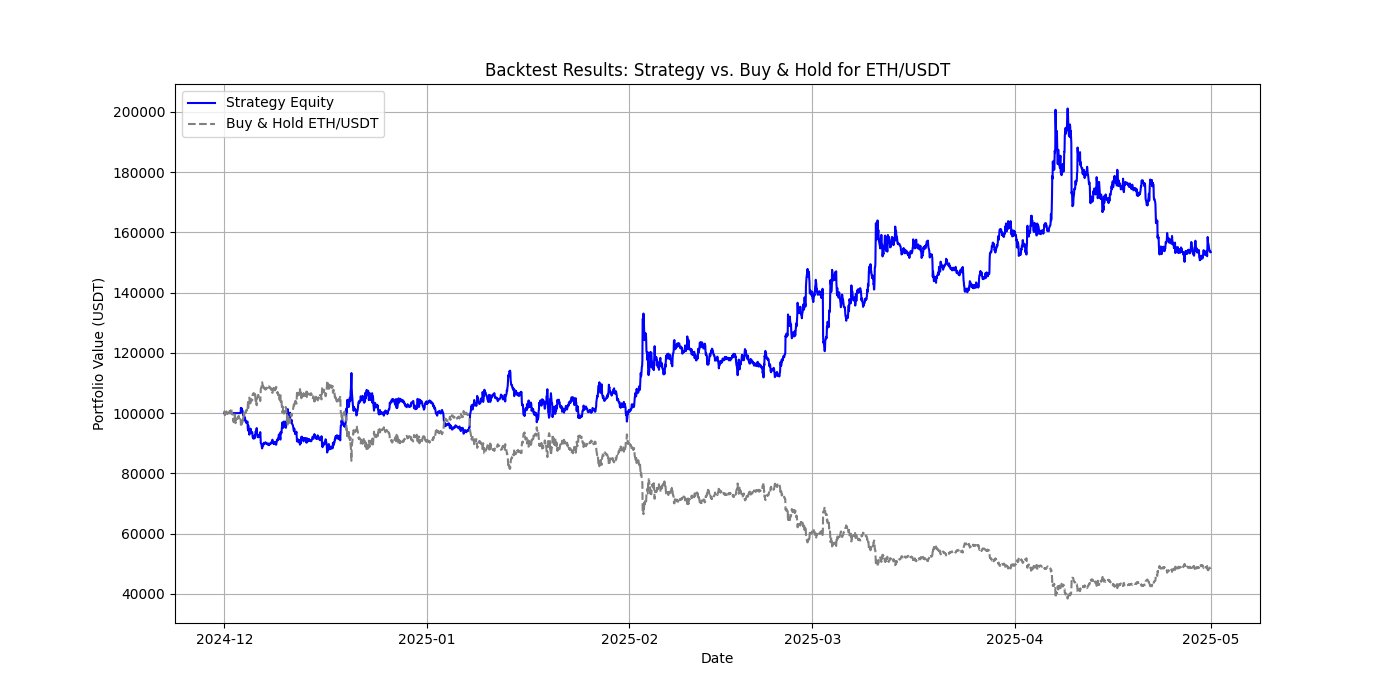
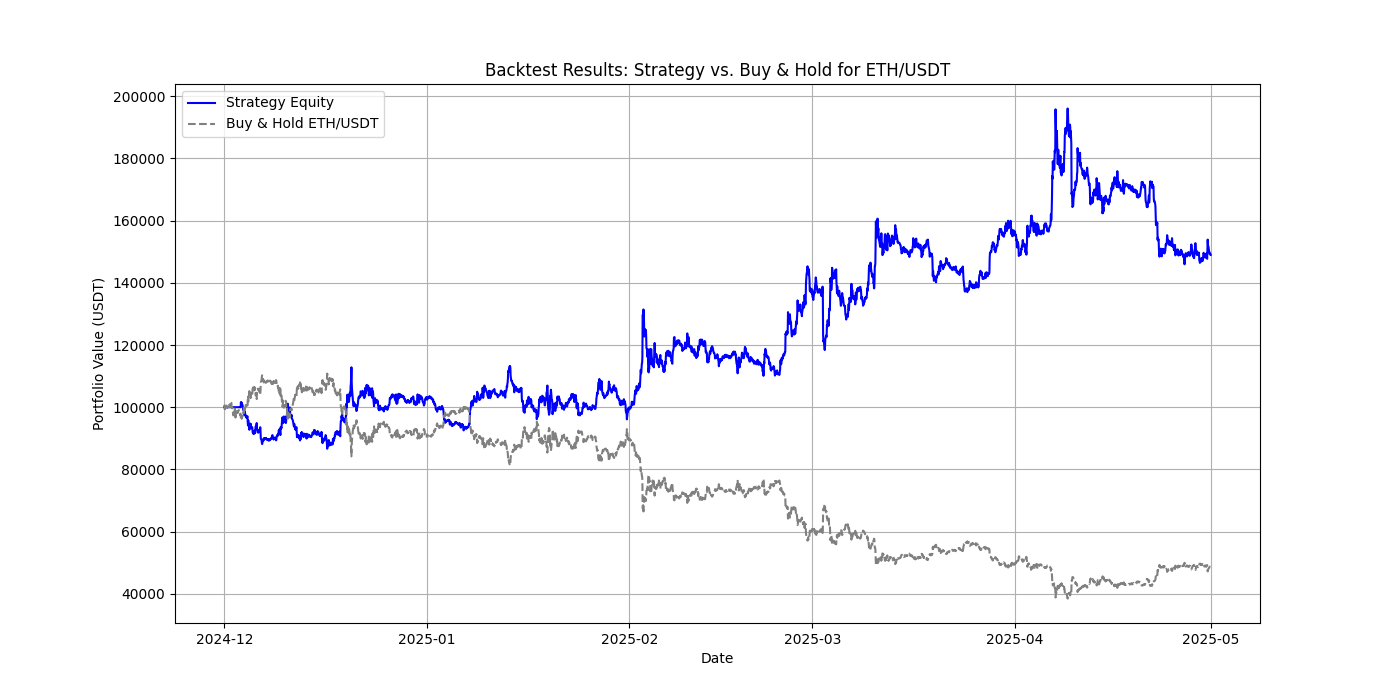
修復回測與重構交易系統
本次提交包含多項重大修復與功能改善，旨在提升系統的穩定性、正確性與未來擴展性。

主要變更：

1.  **修復回測報酬率為 0 的問題**：
    *   修正 `core/portfolio.py` 中的 `update` 函數，確保總價值正確計算現金與持倉市值，解決了報酬率計算錯誤的根本問題。

2.  **PPO 模組整合與修復**：
    *   修復了 `PPOManager` 初始化時缺少參數 (`timeframe`, `version`) 的錯誤。
    *   修正 PPO 模型檔案名稱大小寫敏感問題。
    *   透過在 `core/ppo_manager.py` 中硬編碼 `action_map`，解決了模型加載時動態讀取失敗的問題。
    *   統一了訓練 (`train/ppo/ppo_environment.py`) 與推論 (`core/ppo_manager.py`) 環境，確保 XGBoost 訊號一致地作為 PPO 模型的觀察空間，並建議用戶重新訓練模型以獲得最佳效果。

3.  **統一交易訊號**：
    *   在整個專案中標準化交易訊號為 `-1` (賣出/做空), `0` (持有), `1` (買入/做多)。
    *   在 `strategies/xgboost_trend_strategy.py` 中新增轉換層，將 XGBoost 模型的原生輸出 `(0, 1, 2)` 映射至標準訊號。

4.  **邏輯修正與功能增強**：
    *   修正了訊號 `0` 的交易邏輯，從「平倉」改為「維持現有倉位」，顯著改善了策略表現。
    *   在 `core/exchange.py` 中啟用賣空功能，允許負數持倉。
    *   於 `settings.py` 新增可配置的 `FEE_RATE`，並在 `PaperExchange` 中實現交易手續費的計算與扣除。
    *   為 `backtest.py` 的權益曲線圖新增「買入並持有」策略作為績效比較基準。

5.  **修復實盤交易流程**：
    *   重構 `main.py` 的主迴圈，使其能夠正確獲取數據、計算特徵並執行策略，為實盤/模擬盤交易做好準備。

經過以上修改，系統現在能夠成功執行包含手續費計算的標準回測與 PPO 回測，且邏輯更加清晰一致。

diff --git a/core/exchange.py b/core/exchange.py
@@ -3,6 +3,7 @@
 import ccxt
 import pandas as pd
 from abc import ABC, abstractmethod
+import settings
 
 class Exchange(ABC):
     @abstractmethod
@@ -160,12 +161,17 @@ class PaperExchange(Exchange):
 
         base_currency, quote_currency = symbol.split('/')
 
-        if side == 'buy':
-            cost = amount * price
-            if self._balance[quote_currency]['free'] < cost:
-                raise ValueError(f"資金不足，需要 {cost:.2f} {quote_currency}，但只有 {self._balance[quote_currency]['free']:.2f}")
+        # 計算交易總額和手續費
+        trade_value = amount * price
+        fee = trade_value * settings.FEE_RATE
 
-            self._balance[quote_currency]['free'] -= cost
+        if side == 'buy':
+            cost = trade_value
+            # 檢查包含手續費在內的總資金是否足夠
+            if self._balance[quote_currency]['free'] < cost + fee:
+                raise ValueError(f"資金不足，需要 {cost + fee:.2f} {quote_currency} (含手續費)，但只有 {self._balance[quote_currency]['free']:.2f}")
+
+            self._balance[quote_currency]['free'] -= (cost + fee)
             self._positions.setdefault(base_currency, 0)
             self._positions[base_currency] += amount
 
@@ -173,11 +179,11 @@ class PaperExchange(Exchange):
             # 允許做空，移除持倉檢查
             self._positions.setdefault(base_currency, 0)
             self._positions[base_currency] -= amount
-            revenue = amount * price
-            self._balance[quote_currency]['free'] += revenue
+            revenue = trade_value
+            self._balance[quote_currency]['free'] += (revenue - fee)
 
         return {
-            'info': {'symbol': symbol, 'side': side, 'type': type, 'executedQty': amount, 'avgPrice': price},
+            'info': {'symbol': symbol, 'side': side, 'type': type, 'executedQty': amount, 'avgPrice': price, 'fee': fee},
             'id': str(pd.Timestamp.now().timestamp()),
             'timestamp': self._current_dt,
             'datetime': self._current_dt.isoformat(),

diff --git a/train_trend_model_ppo.py b/train_trend_model_ppo.py
@@ -54,7 +54,7 @@ class TradingEnv(gym.Env):
         self.observation_space = spaces.Box(low=-np.inf, high=np.inf, shape=(len(features_list),))  # 狀態空間: 特徵維度
         self.position = 0  # 當前持倉: 0=無, 1=多, -1=空
         self.balance = 1.0  # 初始淨值
-        self.FEE_RATE = 0.001  # 手續費率
+        self.FEE_RATE = config.settings.FEE_RATE  # 手續費率
 
     def reset(self):
         self.current_step = 0
@@ -141,8 +141,7 @@ def train_ppo(df_features, features_list):
         df_test['actual_return'] = df_test['Close'].pct_change()
         df_test['strategy_return'] = df_test['signal'].shift(1) * df_test['actual_return']
         df_test['trades'] = df_test['signal'].diff().abs()
-        FEE_RATE = 0.001
-        df_test['transaction_costs'] = df_test['trades'] * FEE_RATE
+        df_test['transaction_costs'] = df_test['trades'] * config.settings.FEE_RATE
         df_test['strategy_net_return'] = df_test['strategy_return'] - df_test['transaction_costs']
         df_test['strategy_gross_equity'] = (1 + df_test['strategy_return']).cumprod()
         df_test['strategy_net_equity'] = (1 + df_test['strategy_net_return']).cumprod()

diff --git a/train_trend_model.py b/train_trend_model.py
@@ -301,8 +301,7 @@ def backtest(model, df_features, features_list):
         df_test['trades'] = df_test['signal'].diff().abs()
         # --- 修改結束 ---
         
-        FEE_RATE = 0.001  # 假設 0.1% 手續費
-        df_test['transaction_costs'] = df_test['trades'] * FEE_RATE
+        df_test['transaction_costs'] = df_test['trades'] * config.settings.FEE_RATE
         
         # 淨收益
         df_test['strategy_net_return'] = df_test['strategy_return'] - df_test['transaction_costs']

diff --git a/settings.py b/settings.py
@@ -16,6 +16,7 @@ DEFAULT_SYMBOL = SYMBOLS_TO_TRADE[0]
 
 # --- 3. 模型版本控制 ---
 TREND_MODEL_VERSION = "1.0"
+FEE_RATE = 0.001  # 交易手續費 (0.1%)
 
 def get_trend_model_path(symbol, timeframe, version):
     """
